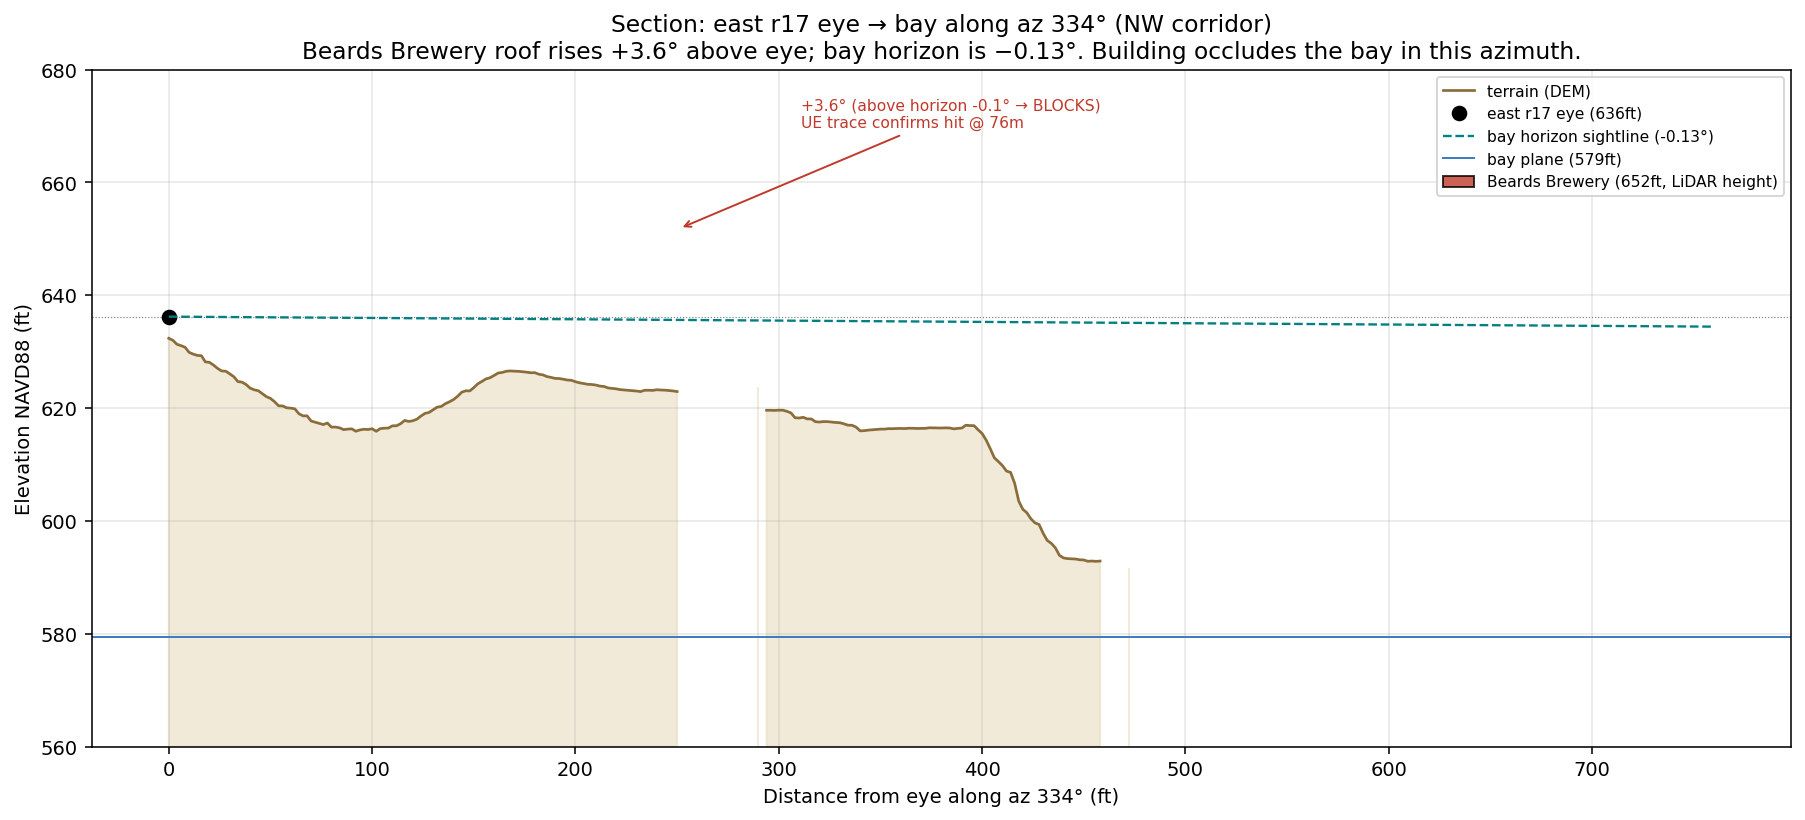
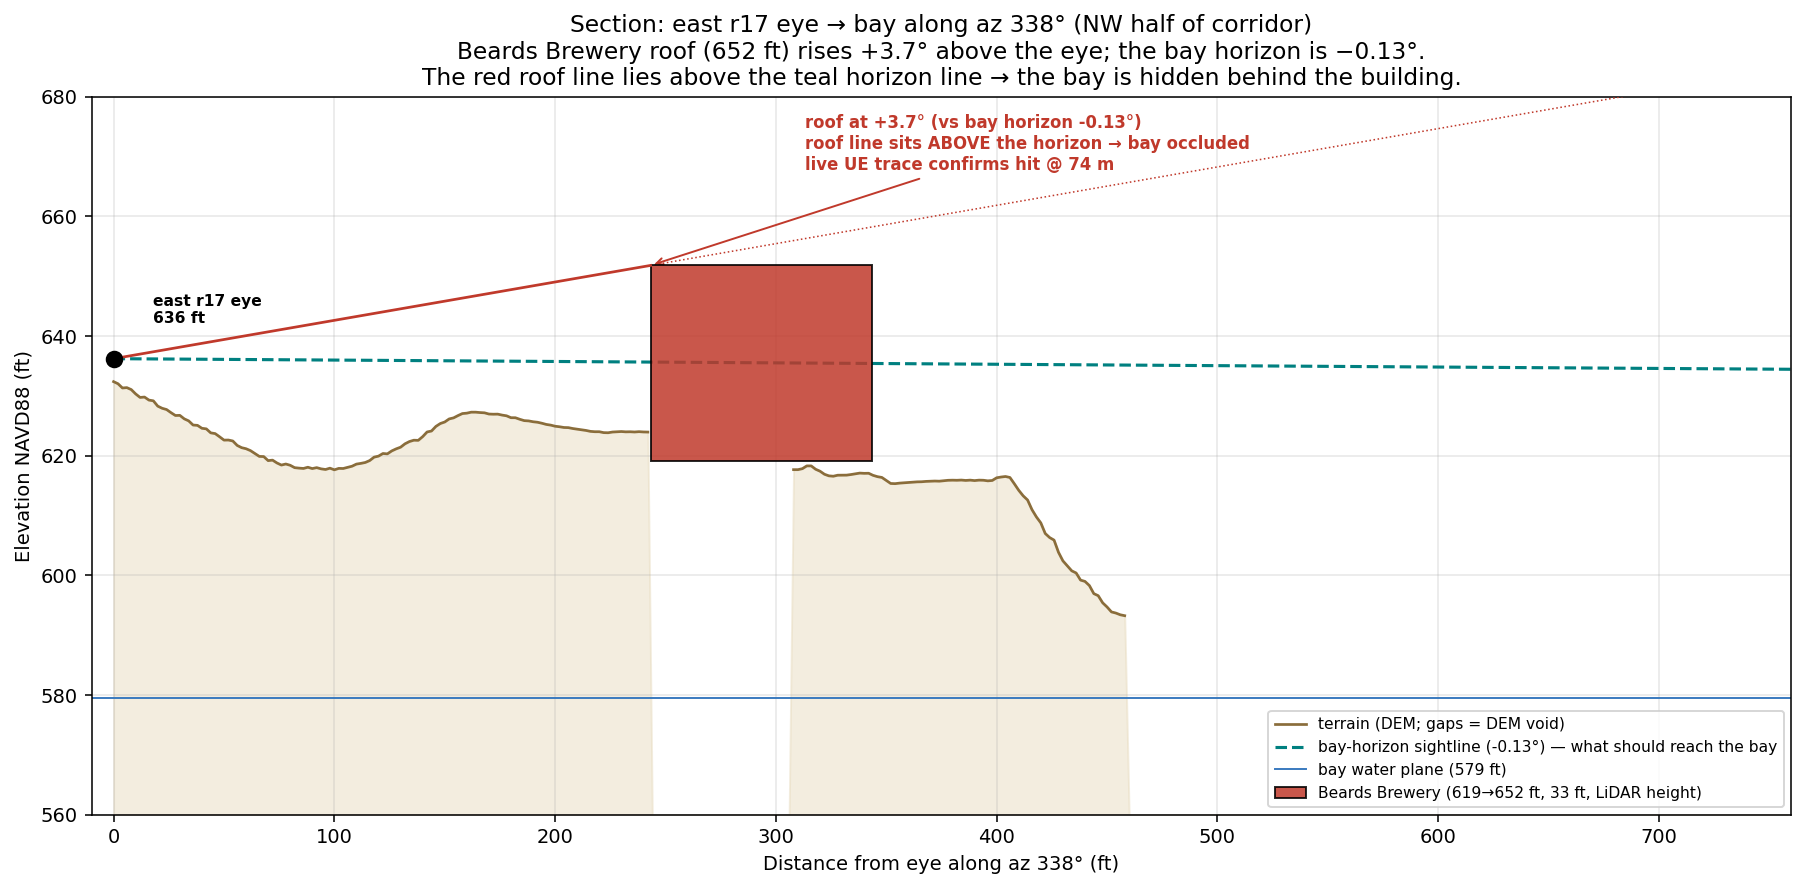
Fix section_beards_east: render the building silhouette correctly
The prior section along az 334 corner-clipped Beards Brewery and anchored
the building box to a live DEM sample that returned NaN (Beards sits in a
DEM nodata void), so the red building rectangle never drew — the diagnostic
asserted the occlusion but did not show it.

Fix:
  - use az 338 (passes through the building body, 100 ft crossing width)
  - anchor the box to the recorded base elevation (619 ft) not the DEM void
  - draw the eye->roof sightline (+3.7 deg) against the bay-horizon
    sightline (-0.13 deg); the teal horizon line now visibly enters the
    red building box, proving the bay is occluded
  - label DEM voids; NaN-safe terrain fill

Changed region(s): [[0.0, 0.2439, 0.9928, 0.9756], [0.031, 0.0, 0.9928, 0.2439], [0.0, 0.2134, 0.062, 0.2439]]

diff --git a/scripts/bay_view_layered_viz.py b/scripts/bay_view_layered_viz.py
@@ -68,7 +68,9 @@ def load():
         blds.append(dict(
             osm_id=m["osm_id"], name=m.get("name") or f"osm{m['osm_id']}",
             poly=box(C.CX + be0 * FT, C.CY + bn0 * FT, C.CX + be1 * FT, C.CY + bn1 * FT),
-            top_ft=float(m["top_ft"]), az=m.get("az")))
+            top_ft=float(m["top_ft"]),
+            base_ft=float(m["base_m"]) * FT if m.get("base_m") is not None else None,
+            az=m.get("az")))
     return treads, stage, blds
 
 
@@ -164,14 +166,16 @@ def section_beards(treads, blds):
     t = next(f for f in treads if f["properties"]["row"] == 17 and f["properties"]["section"] == "east")
     g = shape(t["geometry"]).centroid
     eye_z = t["properties"]["tread_elev_navd88"] + C.EYE_SEATED_FT
-    az = 334.0
+    # az 338 passes through the BODY of Beards (100 ft crossing width), not a
+    # corner clip — so the building silhouette is fully shown.
+    az = 338.0
     e, n = C.U(az)
     horizon = -math.degrees(math.sqrt(2 * (eye_z - C.BAY_PLANE) / 20.9e6))
 
     ds_ft = np.arange(0, 760, 2.0)
-    terr = [dem(g.x + e * d, g.y + n * d) for d in ds_ft]
+    terr = np.array([dem(g.x + e * d, g.y + n * d) for d in ds_ft])
 
-    # Beards on this ray
+    # Beards crossing on this ray
     beards = next((b for b in blds if "Beards" in str(b["name"])), None)
     bd0 = bd1 = None
     if beards:
@@ -182,37 +186,51 @@ def section_beards(treads, blds):
                   for cx, cy in (gg.coords if hasattr(gg, "coords") else [])]
             bd0, bd1 = min(dd), max(dd)
 
-    fig, ax = plt.subplots(figsize=(13, 6))
-    ax.plot(ds_ft, terr, color="#8a6d3b", lw=1.4, label="terrain (DEM)")
-    ax.fill_between(ds_ft, 560, terr, color="#e8dcc0", alpha=0.6)
-    ax.axhline(eye_z, color="gray", lw=0.6, ls=":")
-    ax.plot(0, eye_z, "ko", ms=7, label=f"east r17 eye ({eye_z:.0f}ft)")
-    # horizon sightline
+    fig, ax = plt.subplots(figsize=(13, 6.5))
+    # terrain (NaN-safe: matplotlib breaks the line at NaN voids automatically)
+    ax.plot(ds_ft, terr, color="#8a6d3b", lw=1.4, label="terrain (DEM; gaps = DEM void)")
+    ax.fill_between(ds_ft, 560, np.nan_to_num(terr, nan=560.0), color="#e8dcc0", alpha=0.5)
+    ax.plot(0, eye_z, "ko", ms=8, zorder=10)
+    ax.annotate(f"east r17 eye\n{eye_z:.0f} ft", (0, eye_z), (18, eye_z + 6),
+                fontsize=8, fontweight="bold")
+
+    # the two sightlines that decide the case, drawn as rays FROM the eye
     xs = np.array([0, 760])
     ax.plot(xs, eye_z + xs * math.tan(math.radians(horizon)),
-            color="teal", lw=1.2, ls="--", label=f"bay horizon sightline ({horizon:.2f}°)")
-    ax.axhline(C.BAY_PLANE, color="#3a7abf", lw=1.0, label=f"bay plane ({C.BAY_PLANE:.0f}ft)")
-    # Beards silhouette
-    if beards and bd0 is not None:
-        ax.add_patch(plt.Rectangle((bd0, dem(g.x + e * bd0, g.y + n * bd0)),
-                                   bd1 - bd0, beards["top_ft"] - dem(g.x + e * bd0, g.y + n * bd0),
-                                   fc="#c0392b", ec="black", alpha=0.8, zorder=5,
-                                   label=f"Beards Brewery ({beards['top_ft']:.0f}ft, LiDAR height)"))
-        # sightline to building top
-        ang_top = math.degrees(math.atan2(beards["top_ft"] - eye_z, bd0))
-        ax.annotate(f"+{ang_top:.1f}° (above horizon {horizon:.1f}° → BLOCKS)\n"
-                    f"UE trace confirms hit @ {bd0*0.3048:.0f}m",
-                    xy=(bd0, beards["top_ft"]), xytext=(bd0 + 60, beards["top_ft"] + 18),
-                    fontsize=8, color="#c0392b",
-                    arrowprops=dict(arrowstyle="->", color="#c0392b"))
+            color="teal", lw=1.6, ls="--",
+            label=f"bay-horizon sightline ({horizon:.2f}°) — what should reach the bay")
+    ax.axhline(C.BAY_PLANE, color="#3a7abf", lw=1.0,
+               label=f"bay water plane ({C.BAY_PLANE:.0f} ft)")
 
-    ax.set_xlabel("Distance from eye along az 334° (ft)")
+    # Beards silhouette anchored to its RECORDED base (DEM is void here)
+    if beards and bd0 is not None:
+        base = beards["base_ft"] if beards["base_ft"] else (terr[~np.isnan(terr)][-1])
+        ax.add_patch(plt.Rectangle((bd0, base), bd1 - bd0, beards["top_ft"] - base,
+                                   fc="#c0392b", ec="black", alpha=0.85, zorder=6,
+                                   label=f"Beards Brewery ({base:.0f}→{beards['top_ft']:.0f} ft, "
+                                         f"{(beards['top_ft']-base):.0f} ft, LiDAR height)"))
+        ang_top = math.degrees(math.atan2(beards["top_ft"] - eye_z, bd0))
+        # sightline from eye grazing the building roof
+        ax.plot([0, bd0], [eye_z, beards["top_ft"]], color="#c0392b", lw=1.4, zorder=7)
+        ax.plot([bd0, 760], [beards["top_ft"], eye_z + 760 * math.tan(math.radians(ang_top))],
+                color="#c0392b", lw=0.8, ls=":", zorder=5)
+        ax.annotate(
+            f"roof at +{ang_top:.1f}° (vs bay horizon {horizon:.2f}°)\n"
+            f"roof line sits ABOVE the horizon → bay occluded\n"
+            f"live UE trace confirms hit @ {bd0*0.3048:.0f} m",
+            xy=(bd0, beards["top_ft"]), xytext=(bd0 + 70, beards["top_ft"] + 16),
+            fontsize=8.5, color="#c0392b", fontweight="bold",
+            arrowprops=dict(arrowstyle="->", color="#c0392b"))
+
+    ax.set_xlabel(f"Distance from eye along az {az:.0f}° (ft)")
     ax.set_ylabel("Elevation NAVD88 (ft)")
+    ax.set_xlim(-10, 760)
     ax.set_ylim(560, 680)
-    ax.set_title("Section: east r17 eye → bay along az 334° (NW corridor)\n"
-                 "Beards Brewery roof rises +3.6° above eye; bay horizon is −0.13°. "
-                 "Building occludes the bay in this azimuth.")
-    ax.legend(fontsize=8, loc="upper right")
+    ax.set_title(
+        f"Section: east r17 eye → bay along az {az:.0f}° (NW half of corridor)\n"
+        "Beards Brewery roof (652 ft) rises +3.7° above the eye; the bay horizon is −0.13°.\n"
+        "The red roof line lies above the teal horizon line → the bay is hidden behind the building.")
+    ax.legend(fontsize=8, loc="lower right")
     ax.grid(alpha=0.3)
     plt.tight_layout()
     fig.savefig(os.path.join(OUT, "section_beards_east.png"), dpi=140, bbox_inches="tight")